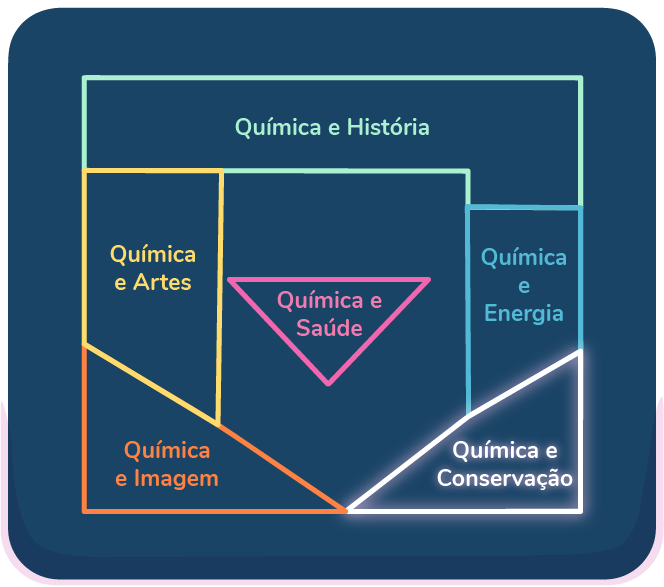
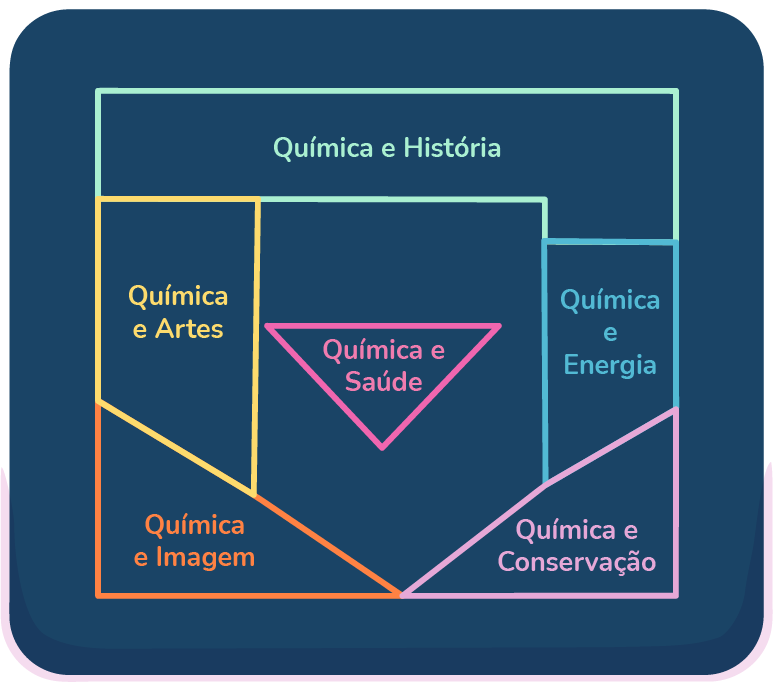
Removendo eventos de objetos quando cena for shutdown

diff --git a/src/Conservacao-Energia/prefabs/VasoAntigo.js b/src/Conservacao-Energia/prefabs/VasoAntigo.js
@@ -4,27 +4,39 @@ export default class VasoAntigo extends Phaser.Physics.Arcade.Image {
   constructor(scene, x, y) {
     super(scene, x, y, "vaso");
 
-    scene.add.existing(this);
-    scene.physics.add.existing(this);
+    this.scene.add.existing(this);
+    this.scene.physics.add.existing(this);
 
     this.setState("isDragging", false);
     this.setData("health", 100);
     this.setInteractive({draggable: true});
     this.setDepth(10);
 
-    this.on("dragstart", () => {
-      this.setState("dragstart");
-      this.body.moves = false;
-      this.body.setVelocityY(0);
-    });
-    
-    this.on("drag", (pointer, dragX, dragY) => {
-      this.setPosition(dragX, dragY);
-    });
-    
-    this.on("dragend", () => {
-      this.setState("dragend");
-      this.body.moves = true;
-    });
+    this.on("dragstart", this.handleDragStart);
+    this.on("drag",  this.handleDrag);
+    this.on("dragend", this.handleDragEnd);
+    this.scene.events.on(Phaser.Scenes.Events.SHUTDOWN, this.cleanEvents)
+  }
+  
+  handleDragStart() {
+    this.setState("dragstart");
+    this.body.moves = false;
+    this.body.setVelocityY(0);
+  }
+  
+  handleDrag(pointer, dragX, dragY) {
+    this.setPosition(dragX, dragY);
+  }
+  
+  handleDragEnd() {
+    this.setState("dragend");
+    this.body.moves = true;
+  }
+  
+  cleanEvents = (sys) => {
+    console.log("Cleaning events from VasoAntigo")
+    this.removeListener("dragstart", this.handleDragStart);
+    this.removeListener("drag",  this.handleDrag);
+    this.removeListener("dragend", this.handleDragEnd);
   }
 }

diff --git a/src/Menu/index.js b/src/Menu/index.js
@@ -33,7 +33,7 @@ export default class MenuScene extends Phaser.Scene {
 
     this.add.image(683, 197, "menu-atlas", "ladquim-title");
     
-    this.ladquimArea = this.createLadquimMap(683, 699);
+    this.ladquimArea = this.createLadquimMap(683, 655);
     this.add.text(this.ladquimArea.x, 1030, "Selecione um Mini-Jogo!", {fontFamily: "Nunito-Black", fontSize: "43px"}).setOrigin(0.5, 0.5);
     new fullScreenBtnComponent(this);
   }
@@ -42,6 +42,7 @@ export default class MenuScene extends Phaser.Scene {
     let ladquimArea = this.add.dom(x, y).createFromCache("ladquim-mapa");
     ladquimArea.addListener(Phaser.Input.Events.POINTER_UP);
     ladquimArea.on(Phaser.Input.Events.POINTER_UP, this.changeScene);
+    this.events.on(Phaser.Scenes.Events.SHUTDOWN, this.cleanEvents)
 
     return ladquimArea;
   }
@@ -50,5 +51,10 @@ export default class MenuScene extends Phaser.Scene {
     event.preventDefault();
   
     this.scene.start(CONSTANTS[event.target.id]);
+  }
+
+  cleanEvents = (sys) => {
+    console.log("Cleaning events from: Menu")
+    sys.scene.ladquimArea.removeListener(Phaser.Input.Events.POINTER_UP, this.changeScene)
   }
 }

diff --git a/src/common/scripts/fullScreenBtn.js b/src/common/scripts/fullScreenBtn.js
@@ -6,11 +6,23 @@ export default class FullScreenBtn extends Phaser.GameObjects.Image {
 
     this.setOrigin(1, 0);
     this.setInteractive();
-    this.on(Phaser.Input.Events.POINTER_UP, handleFullScreenMode);
-    this.on(Phaser.Scale.Events.FULLSCREEN_UNSUPPORTED, () => console.error("Full Screen Unsupported"));
 
-    function handleFullScreenMode() {
-      scene.scale.toggleFullscreen();
-    }
+    this.on(Phaser.Input.Events.POINTER_UP, this.handleFullScreenMode);
+    this.on(Phaser.Scale.Events.FULLSCREEN_UNSUPPORTED, this.handleFullScreenUnsupported);
+    this.scene.events.on(Phaser.Scenes.Events.SHUTDOWN, this.cleanEvents)
+  }
+
+  handleFullScreenMode = () => {
+    this.scene.scale.toggleFullscreen();
+  }
+
+  handleFullScreenUnsupported = () => {
+    console.error("FullScreen não é suportado !!")
+  }
+
+  cleanEvents = () => {
+    console.log("Cleaning events from FullScreenBtn")
+    this.removeListener(Phaser.Input.Events.POINTER_UP, this.handleFullScreenMode);
+    this.removeListener(Phaser.Scale.Events.FULLSCREEN_UNSUPPORTED, this.handleFullScreenUnsupported)
   }
 }

diff --git a/src/common/scripts/Button.js b/src/common/scripts/Button.js
@@ -14,6 +14,7 @@ export default class Button extends Phaser.GameObjects.Container {
     this.on(Phaser.Input.Events.GAMEOBJECT_POINTER_OUT, this.normalButton)
     this.on(Phaser.Input.Events.GAMEOBJECT_POINTER_DOWN, this.downButton)
     this.on(Phaser.Input.Events.GAMEOBJECT_POINTER_UP, this.upButton)
+    this.scene.events.on(Phaser.Scenes.Events.SHUTDOWN, this.cleanEvents)
   }
 
   hoverButton = () => {
@@ -32,5 +33,13 @@ export default class Button extends Phaser.GameObjects.Container {
   upButton = () => {
     console.log("GAMEOBJECT_POINTER_UP")
     this.textura.setTexture("common-atlas", "botao-hover")
+  }
+
+  cleanEvents = (sys) => {
+    console.log("Cleaning events from Button")
+    this.removeListener(Phaser.Input.Events.GAMEOBJECT_POINTER_OVER, this.hoverButton)
+    this.removeListener(Phaser.Input.Events.GAMEOBJECT_POINTER_OUT, this.normalButton)
+    this.removeListener(Phaser.Input.Events.GAMEOBJECT_POINTER_DOWN, this.downButton)
+    this.removeListener(Phaser.Input.Events.GAMEOBJECT_POINTER_UP, this.upButton)
   }
 }

diff --git a/src/Menu/DOMElements/mapa-laquim.html b/src/Menu/DOMElements/mapa-laquim.html
@@ -1,7 +1,7 @@
 <style>
   .mapa-container{
-    width: 664px;
-    height: 587px;
+    width: 773px;
+    height: 684px;
     position: relative;
   }
   .mapa-container .mapa-ladquim,
@@ -14,14 +14,14 @@
   }
 
   .mapa-areas path#MINI_GAME_QUIMICA_CONSERVACAO:hover {
-    fill: rgba(255, 255, 255, 0.2);
+    fill: rgba(230, 168, 215, 0.4);
   }
 </style>
 
 <div class="mapa-container">
   <img src="../images/ladquim-mapa.png" alt="Mapa do LAQUIM" class="mapa-ladquim"/>
 
-  <svg class="mapa-areas" viewBox="0 0 664 587">
-    <path id="MINI_GAME_QUIMICA_CONSERVACAO" d="M 354, 508 L 468, 419 L 577, 357 L 577, 508 L 354, 508"/>
+  <svg class="mapa-areas" viewBox="0 0 773 684">
+    <path id="MINI_GAME_QUIMICA_CONSERVACAO" d="M 411, 592 L 546, 488 L 673, 414 L 673, 592 L 411, 592"/>
   </svg>
 </div>

diff --git a/src/Conservacao-Energia/index.js b/src/Conservacao-Energia/index.js
@@ -28,6 +28,7 @@ export default class ConservacaoEnergiaScene extends Phaser.Scene {
     this.physics.world.setBounds(0, 0, this.game.config.width, this.game.config.height);
 
     this.scale.on(Phaser.Scale.Events.ORIENTATION_CHANGE, this.checkOrientation);
+    this.events.on(Phaser.Scenes.Events.SHUTDOWN, this.cleanEvents)
 
     new fullScreenBtn(this);
     
@@ -146,5 +147,10 @@ export default class ConservacaoEnergiaScene extends Phaser.Scene {
 
       item.setTint(colorNumber);
     }
+  }
+
+  cleanEvents = (sys) => {
+    console.log("Cleaning Events from: " + CONSTANTS.MINI_GAME_QUIMICA_CONSERVACAO)
+    sys.scene.scale.removeListener(Phaser.Scale.Events.ORIENTATION_CHANGE, this.checkOrientation)
   }
 }

diff --git a/src/common/scripts/LoadingInterface.js b/src/common/scripts/LoadingInterface.js
@@ -57,6 +57,7 @@ export default class LoadingInterface extends Phaser.GameObjects.Container {
   }
 
   cleanEvents = (sys) => {
+    console.log("Cleaning events from LoadingInterface")
     sys.scene.load.removeListener(Phaser.Loader.Events.FILE_PROGRESS, this.handleFileProgressBar);
     sys.scene.load.removeListener(Phaser.Loader.Events.PROGRESS, this.handleProgressBar);
     sys.scene.load.removeListener(Phaser.Loader.Events.COMPLETE, this.handleCompleteProgressBar);
